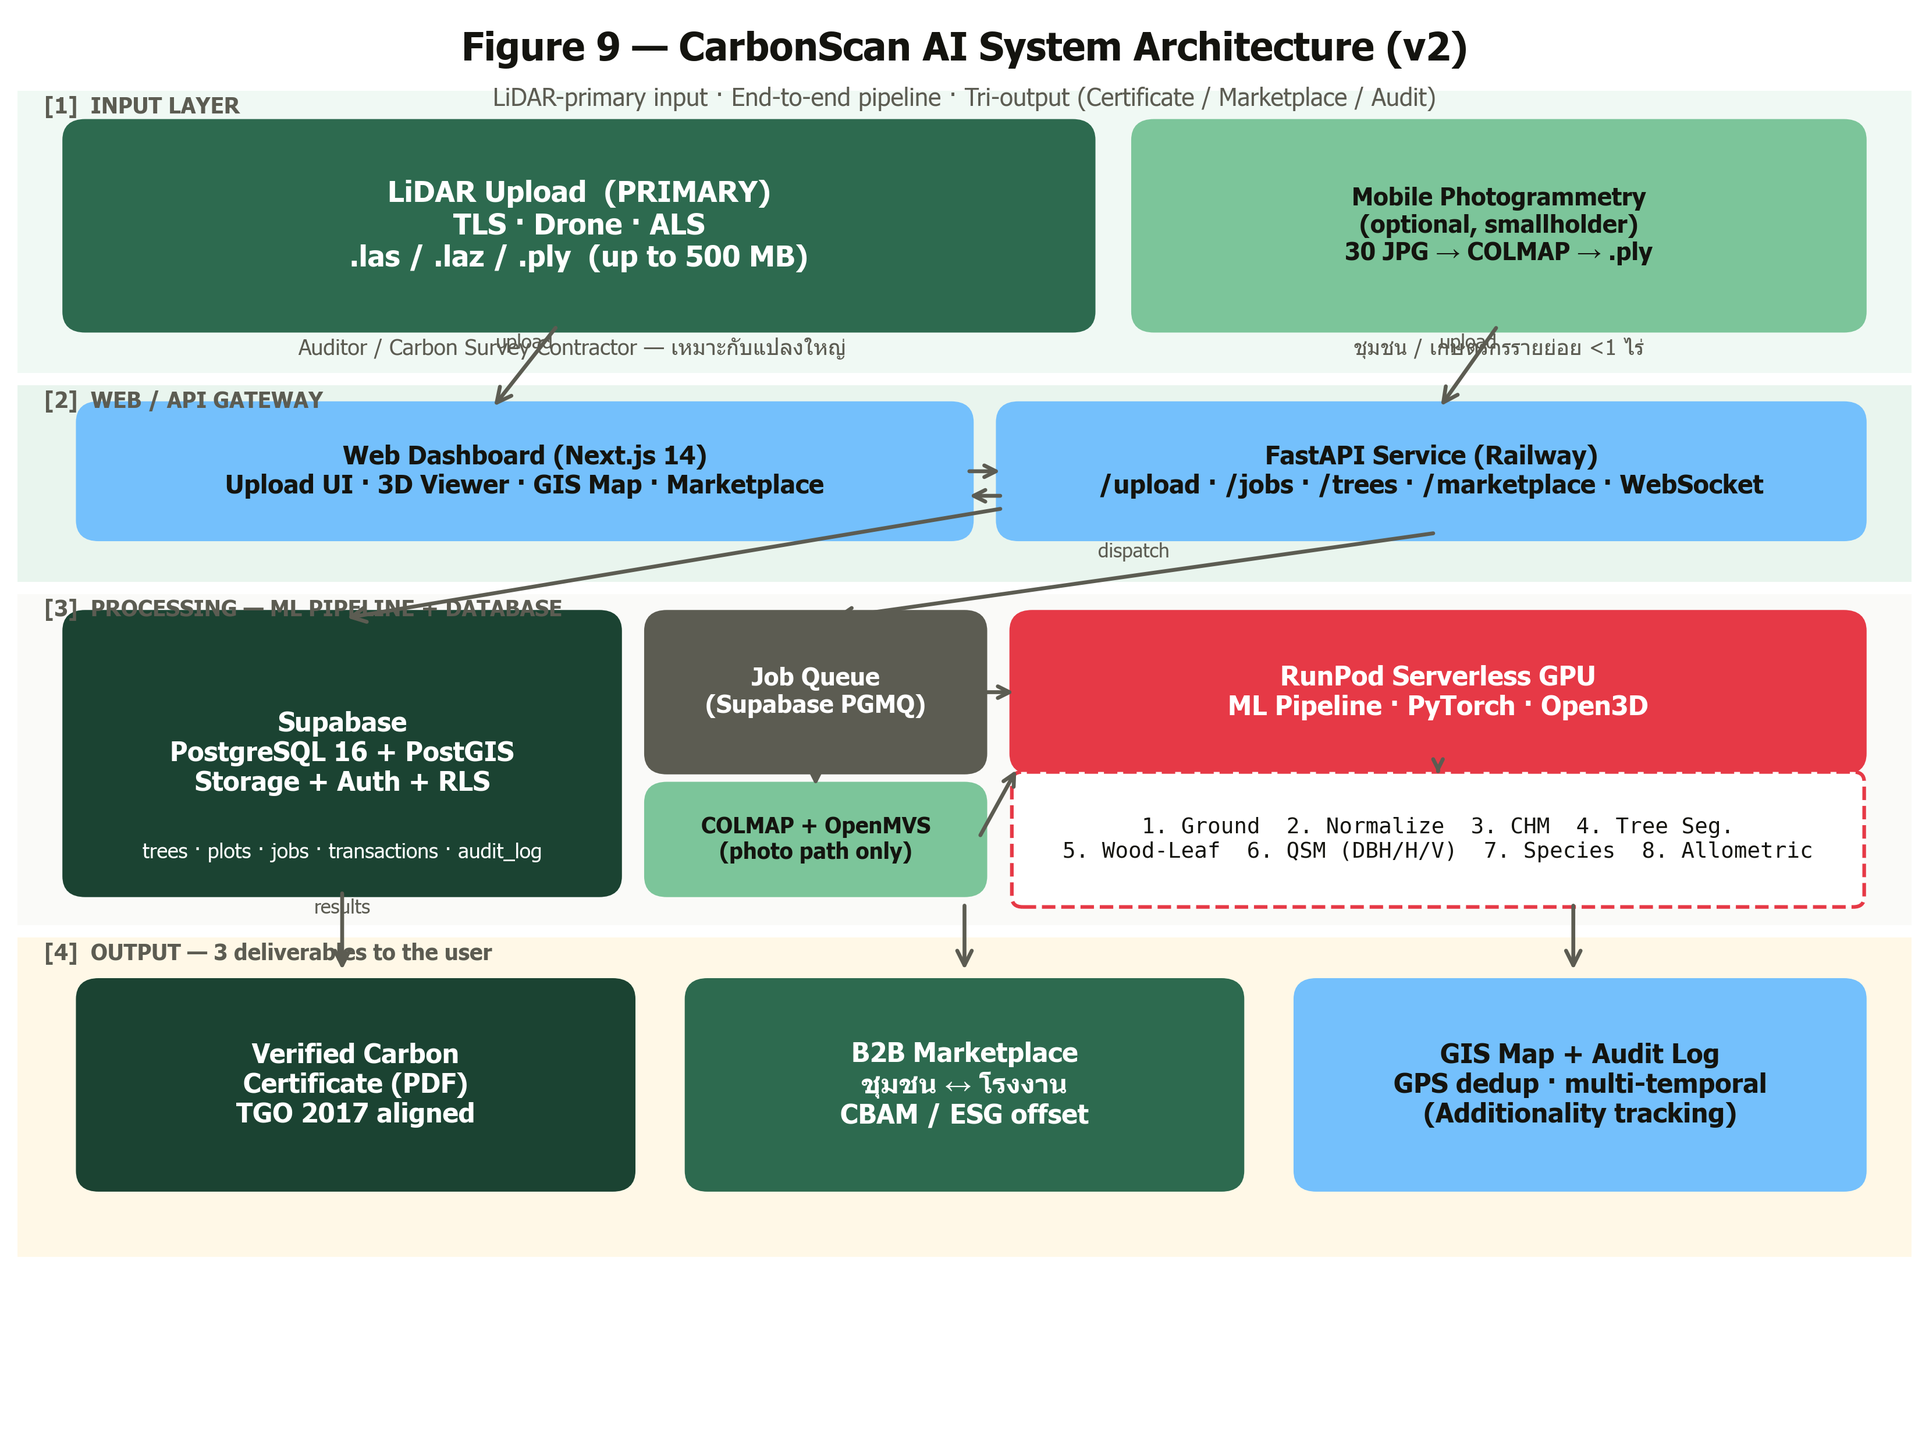
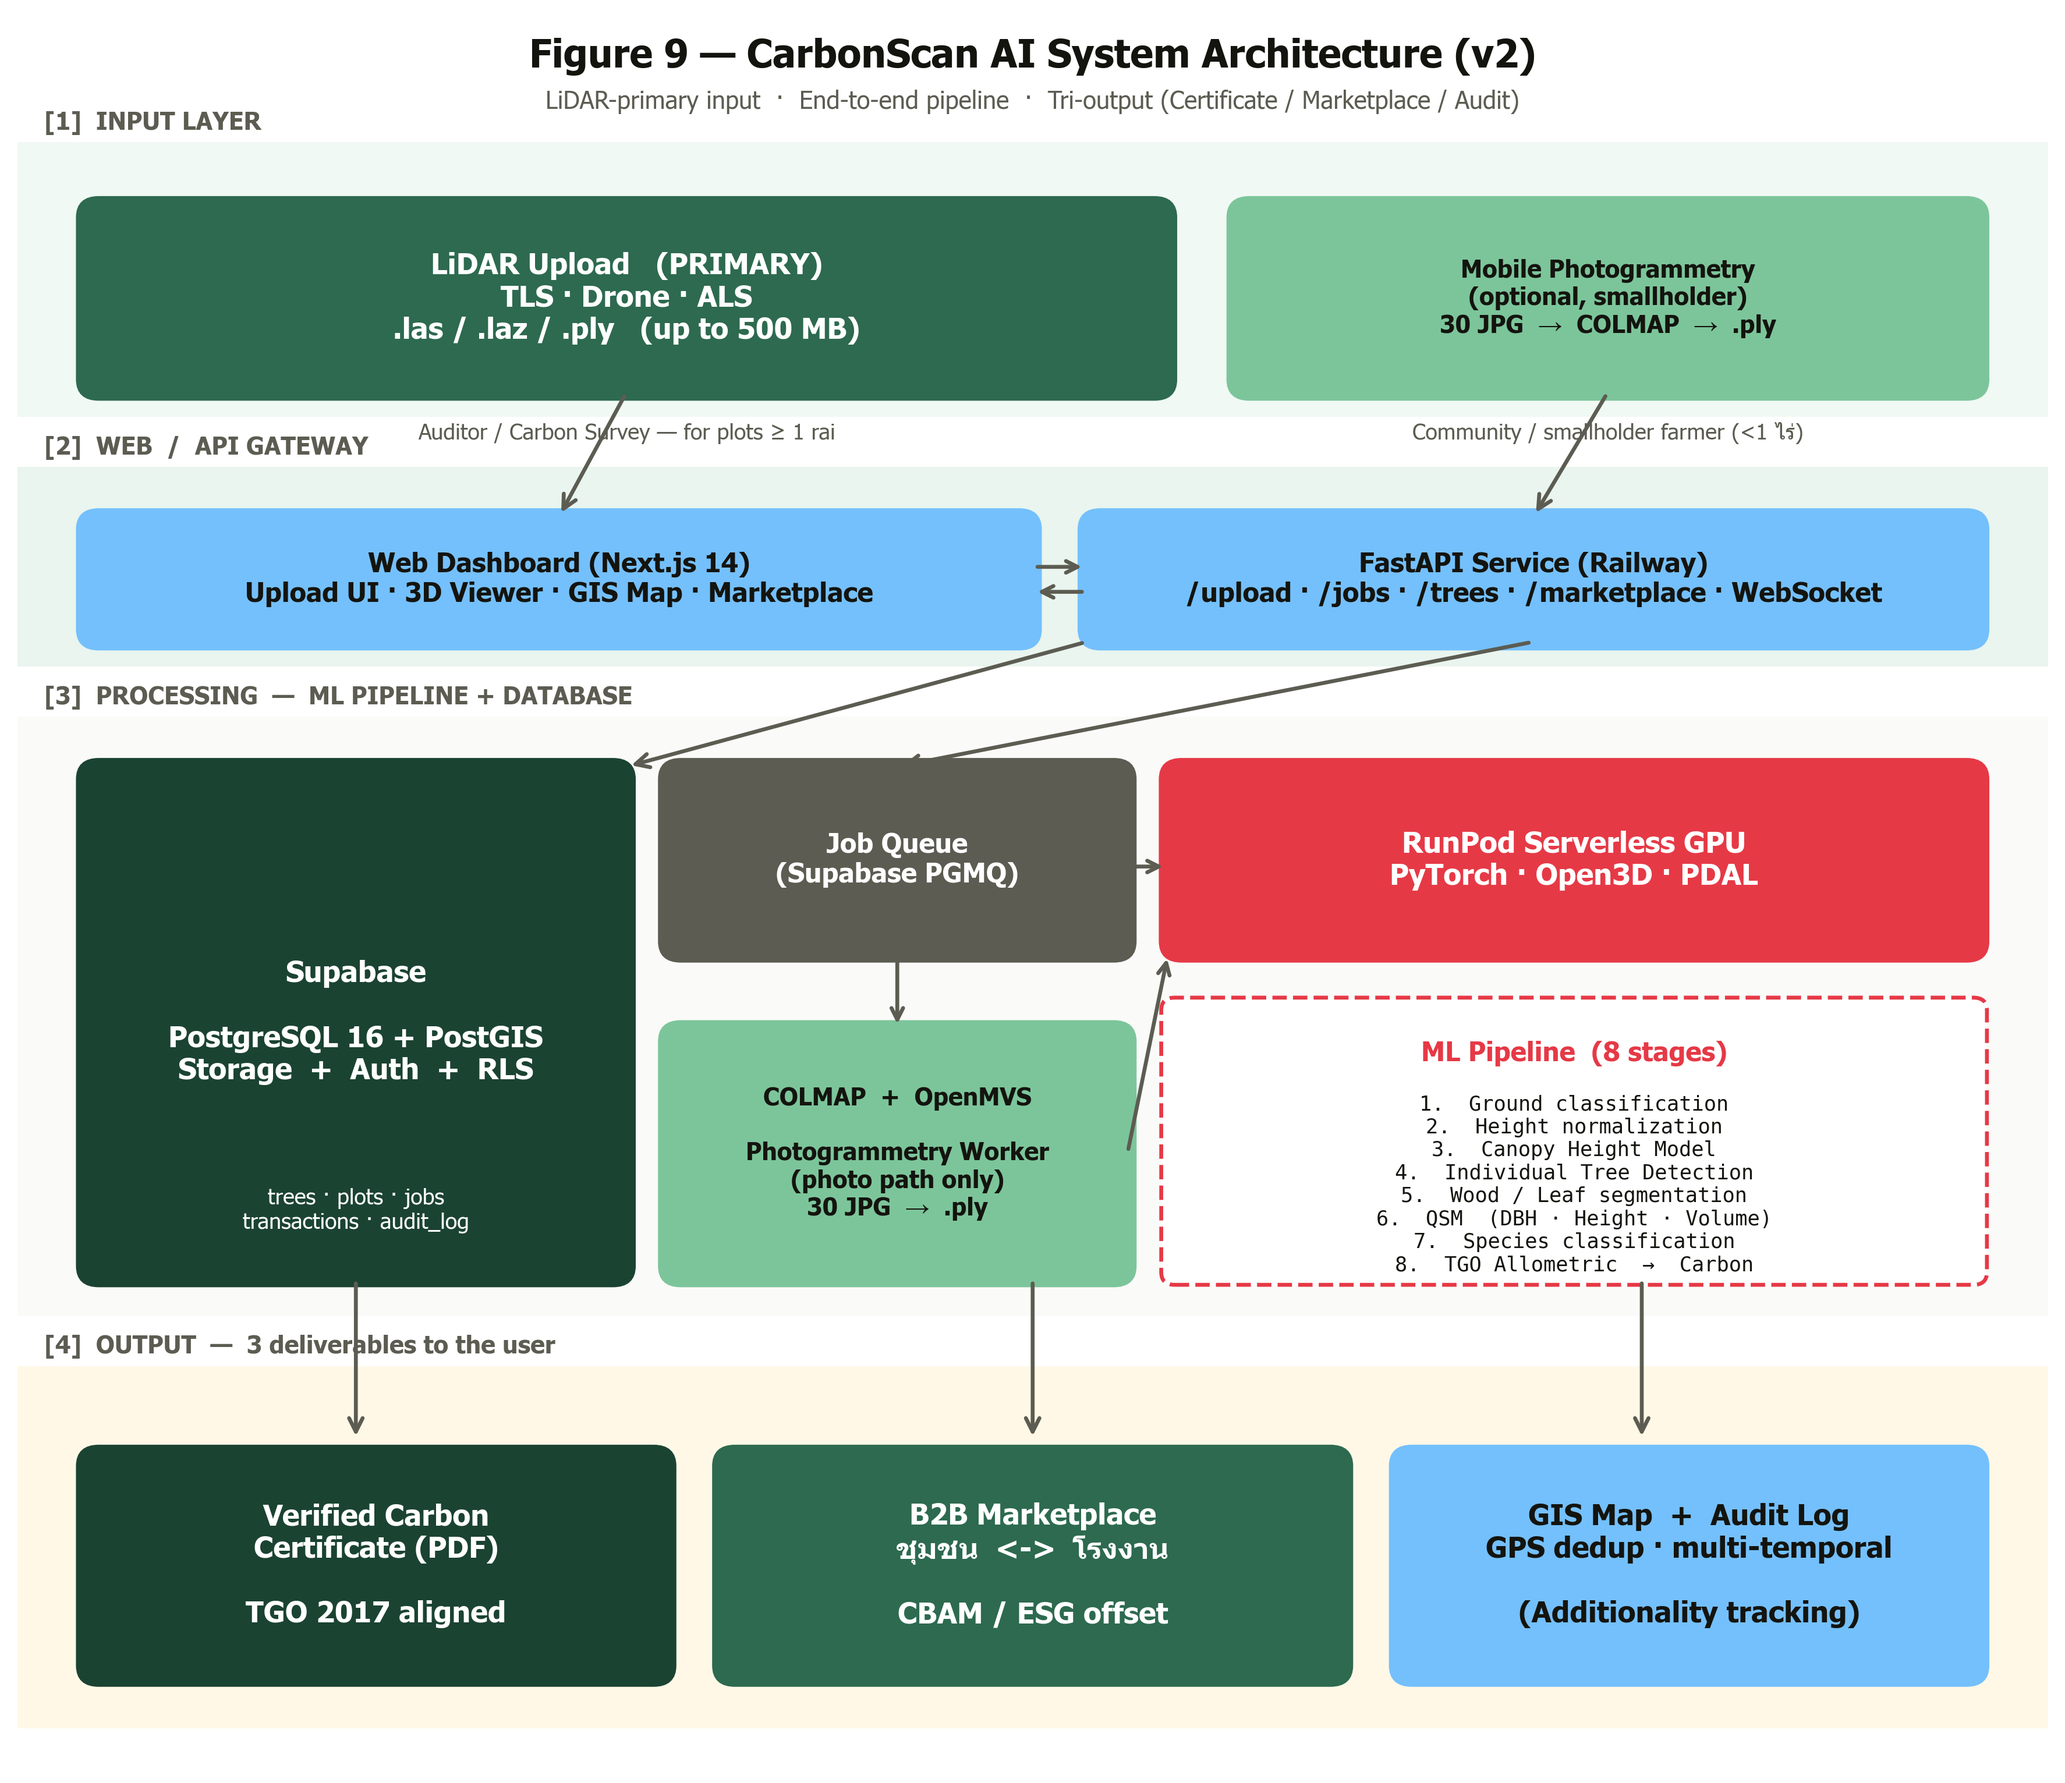
docs(proposal): redo fig09 layout — explicit y-bands, no overlap
Previous v2 had two visual bugs the user spotted:

1. Banner label of layer [3] (PROCESSING — ML PIPELINE + DATABASE) sat on
   top of the Supabase box edge — the text and the box's white border
   collided.
2. Italic captions under the INPUT boxes (Auditor / Carbon Survey
   Contractor … and ชุมชน / เกษตรกรรายย่อย …) overlapped the GATEWAY
   layer background.

Root cause: layer y-bands were stacked tight to maximize info density,
but each box's "inside padding" wasn't accounted for. Banner labels were
placed at y_top - 0.18, which is INSIDE the layer rectangle next to the
box's top edge.

v3 fix:
- Bumped figure to 15 x 13 inches and y-axis to 0-14 to give breathing room.
- Each layer now has an explicit (bg_bot, bg_top, label_y, boxes_bot,
  boxes_top) tuple. Banner labels sit ABOVE the colored background, not
  inside it.
- Italic sub-captions moved into the gap between INPUT and GATEWAY
  backgrounds (y=10.62), and the GATEWAY band was lowered to make space.
- ML Pipeline detail box is now a single bordered card with all 8 stages
  listed vertically — easier to read than the previous 3-line crowded text.
- Database column reorganized so trees/plots/jobs/transactions/audit_log
  list fits inside the Supabase box without colliding with the next layer.
- Output row pushed up slightly (y=0.7) so the layer label [4] is clearly
  above the boxes.

diff --git a/services/ml/notebooks/make_diagrams.py b/services/ml/notebooks/make_diagrams.py
@@ -112,159 +112,165 @@ def _arrow(ax, x1, y1, x2, y2, *, color=STONE, label: str | None = None, mutatio
 
 
 def make_architecture():
-    """v2 — LiDAR-primary architecture diagram.
+    """v3 — LiDAR-primary architecture, layout cleaned up.
 
-    Layout intentionally emphasizes LiDAR as the main input path and
-    Mobile photogrammetry as an optional 'smallholder' fallback, then
-    funnels both through the same software platform to a tri-output of
-    Certificate + Marketplace + Audit log.
+    Each of the 4 layers gets a dedicated y-band with explicit padding so
+    nothing overlaps. Banner labels live in a gutter row above each layer
+    instead of inside the layer rectangle.
     """
-    fig, ax = plt.subplots(figsize=(14, 10.5))
-    ax.set_xlim(0, 14)
-    ax.set_ylim(0, 11.5)
+    fig, ax = plt.subplots(figsize=(15, 13))
+    ax.set_xlim(0, 15)
+    ax.set_ylim(0, 14)
     ax.axis("off")
     fig.patch.set_facecolor("white")
-    ax.set_facecolor("#FAFAF8")
+    ax.set_facecolor("white")
 
-    # === Layer banners ===
-    def banner(y_top, y_bot, label, color):
-        ax.add_patch(
-            mpatches.Rectangle((0, y_bot), 14, y_top - y_bot, facecolor=color, edgecolor="none", zorder=0)
-        )
-        ax.text(0.2, y_top - 0.18, label, fontsize=9, color=STONE, fontweight="bold")
+    # ----- Layer Y bands -----
+    #   gutter_top : label above each layer
+    #   bg_top/bot : the tinted background rectangle
+    #   inside_top/bot: where boxes live
+    layers = [
+        # name           bg_color   bg_bot bg_top   label_y    boxes_bot boxes_top
+        ("[1]  INPUT LAYER",                                "#F0F9F4", 10.8, 13.0, 13.1,  11.0, 12.5),
+        ("[2]  WEB  /  API GATEWAY",                        "#E9F5EE",  8.8, 10.4, 10.5,   9.0, 10.0),
+        ("[3]  PROCESSING  —  ML PIPELINE + DATABASE",      "#FAFAF8",  3.6,  8.4,  8.5,   3.9,  8.0),
+        ("[4]  OUTPUT  —  3 deliverables to the user",      "#FFF8E7",  0.3,  3.2,  3.3,   0.6,  2.6),
+    ]
+    for label, color, bg_bot, bg_top, label_y, *_ in layers:
+        ax.add_patch(mpatches.Rectangle(
+            (0, bg_bot), 15, bg_top - bg_bot,
+            facecolor=color, edgecolor="none", zorder=0))
+        ax.text(0.2, label_y, label, fontsize=10, color=STONE, fontweight="bold")
 
-    banner(10.9, 8.6, "[1]  INPUT LAYER", "#F0F9F4")
-    banner(8.5, 6.9, "[2]  WEB / API GATEWAY", "#E9F5EE")
-    banner(6.8, 4.1, "[3]  PROCESSING — ML PIPELINE + DATABASE", "#FAFAF8")
-    banner(4.0, 1.4, "[4]  OUTPUT — 3 deliverables to the user", "#FFF8E7")
-
-    # === INPUT LAYER ===
-    # LiDAR — BIG, PRIMARY
+    # ===========================  INPUT LAYER  ===========================
+    # LiDAR — BIG, PRIMARY  (left 8 of 15)
     _box(
-        ax, 0.4, 9.0, 7.5, 1.6,
-        "LiDAR Upload  (PRIMARY)\nTLS · Drone · ALS\n.las / .laz / .ply  (up to 500 MB)",
+        ax, 0.5, 11.0, 8.0, 1.5,
+        "LiDAR Upload   (PRIMARY)\nTLS · Drone · ALS\n.las / .laz / .ply   (up to 500 MB)",
         color=FOREST_500, fontsize=12,
     )
-    ax.text(4.1, 8.75, "Auditor / Carbon Survey Contractor — เหมาะกับแปลงใหญ่",
-            ha="center", fontsize=9, color=STONE, style="italic")
 
-    # Mobile — SMALLER, SECONDARY
+    # Mobile — SMALLER, SECONDARY  (right 5.5)
     _box(
-        ax, 8.3, 9.0, 5.3, 1.6,
-        "Mobile Photogrammetry\n(optional, smallholder)\n30 JPG → COLMAP → .ply",
+        ax, 9.0, 11.0, 5.5, 1.5,
+        "Mobile Photogrammetry\n(optional, smallholder)\n30 JPG  →  COLMAP  →  .ply",
         color=FOREST_300, text_color=CHARCOAL, fontsize=10,
     )
-    ax.text(10.95, 8.75, "ชุมชน / เกษตรกรรายย่อย <1 ไร่",
+
+    # Sub-captions sit in the small gap between INPUT background and GATEWAY background
+    ax.text(4.5, 10.62, "Auditor / Carbon Survey — for plots ≥ 1 rai",
+            ha="center", fontsize=9, color=STONE, style="italic")
+    ax.text(11.75, 10.62, "Community / smallholder farmer (<1 ไร่)",
             ha="center", fontsize=9, color=STONE, style="italic")
 
-    # === WEB / API GATEWAY ===
+    # ===========================  GATEWAY  ===========================
     _box(
-        ax, 0.5, 7.3, 6.5, 1.0,
+        ax, 0.5, 9.0, 7.0, 1.0,
         "Web Dashboard (Next.js 14)\nUpload UI · 3D Viewer · GIS Map · Marketplace",
-        color=SKY_500, text_color=CHARCOAL, fontsize=10.5,
+        color=SKY_500, text_color=CHARCOAL, fontsize=11,
     )
     _box(
-        ax, 7.3, 7.3, 6.3, 1.0,
+        ax, 7.9, 9.0, 6.6, 1.0,
         "FastAPI Service (Railway)\n/upload · /jobs · /trees · /marketplace · WebSocket",
-        color=SKY_500, text_color=CHARCOAL, fontsize=10.5,
-    )
-
-    # === PROCESSING LAYER ===
-    # Database (left)
-    _box(
-        ax, 0.4, 4.4, 4.0, 2.2,
-        "Supabase\nPostgreSQL 16 + PostGIS\nStorage + Auth + RLS",
-        color=FOREST_700, fontsize=11,
-    )
-    ax.text(2.4, 4.65, "trees · plots · jobs · transactions · audit_log",
-            ha="center", fontsize=8.5, color="white", style="italic")
-
-    # Queue (center)
-    _box(
-        ax, 4.7, 5.4, 2.4, 1.2,
-        "Job Queue\n(Supabase PGMQ)",
-        color=STONE, fontsize=10,
-    )
-    # Photogrammetry worker (smaller, below queue)
-    _box(
-        ax, 4.7, 4.4, 2.4, 0.8,
-        "COLMAP + OpenMVS\n(photo path only)",
-        color=FOREST_300, text_color=CHARCOAL, fontsize=9,
-    )
-
-    # GPU Worker (right)
-    _box(
-        ax, 7.4, 5.4, 6.2, 1.2,
-        "RunPod Serverless GPU\nML Pipeline · PyTorch · Open3D",
-        color=ERROR, fontsize=11,
-    )
-    # ML pipeline details
-    pipeline_text = (
-        "1. Ground  2. Normalize  3. CHM  4. Tree Seg.\n"
-        "5. Wood-Leaf  6. QSM (DBH/H/V)  7. Species  8. Allometric"
-    )
-    ax.add_patch(
-        FancyBboxPatch(
-            (7.4, 4.3), 6.2, 1.0,
-            boxstyle="round,pad=0.05,rounding_size=0.08",
-            facecolor="white", edgecolor=ERROR, linewidth=1.5, linestyle="--",
-        )
-    )
-    ax.text(10.5, 4.8, pipeline_text, ha="center", va="center", fontsize=9, color=CHARCOAL, family="monospace")
-
-    # === OUTPUT LAYER ===
-    _box(
-        ax, 0.5, 2.0, 4.0, 1.6,
-        "Verified Carbon\nCertificate (PDF)\nTGO 2017 aligned",
-        color=FOREST_700, fontsize=11,
-    )
-    _box(
-        ax, 5.0, 2.0, 4.0, 1.6,
-        "B2B Marketplace\nชุมชน ↔ โรงงาน\nCBAM / ESG offset",
-        color=FOREST_500, fontsize=11,
-    )
-    _box(
-        ax, 9.5, 2.0, 4.1, 1.6,
-        "GIS Map + Audit Log\nGPS dedup · multi-temporal\n(Additionality tracking)",
         color=SKY_500, text_color=CHARCOAL, fontsize=11,
     )
 
-    # === Arrows: top-down flow ===
-    # Inputs → Web/API gateway
-    _arrow(ax, 4.0, 9.0, 3.5, 8.3, label="upload")
-    _arrow(ax, 10.95, 9.0, 10.5, 8.3, label="upload")
+    # ===========================  PROCESSING  ===========================
+    # Database — leftmost full-height column
+    _box(
+        ax, 0.5, 3.9, 4.0, 4.1,
+        "Supabase\n\nPostgreSQL 16 + PostGIS\nStorage  +  Auth  +  RLS",
+        color=FOREST_700, fontsize=12,
+    )
+    ax.text(2.5, 4.3,
+            "trees · plots · jobs\ntransactions · audit_log",
+            ha="center", fontsize=9, color="white", style="italic")
 
-    # Web ↔ API
-    _arrow(ax, 7.0, 7.8, 7.3, 7.8, mutation=12)
-    _arrow(ax, 7.3, 7.6, 7.0, 7.6, mutation=12)
+    # Center column: Queue (top) + COLMAP (below)
+    _box(
+        ax, 4.8, 6.5, 3.4, 1.5,
+        "Job Queue\n(Supabase PGMQ)",
+        color=STONE, fontsize=11,
+    )
+    _box(
+        ax, 4.8, 3.9, 3.4, 2.0,
+        "COLMAP  +  OpenMVS\n\nPhotogrammetry Worker\n(photo path only)\n30 JPG  →  .ply",
+        color=FOREST_300, text_color=CHARCOAL, fontsize=10,
+    )
 
-    # API → Queue
-    _arrow(ax, 10.5, 7.3, 6.0, 6.6, label="dispatch")
+    # Right column: GPU Worker (top) + ML pipeline detail (below)
+    _box(
+        ax, 8.5, 6.5, 6.0, 1.5,
+        "RunPod Serverless GPU\nPyTorch · Open3D · PDAL",
+        color=ERROR, fontsize=12,
+    )
+    ax.add_patch(FancyBboxPatch(
+        (8.5, 3.9), 6.0, 2.2,
+        boxstyle="round,pad=0.05,rounding_size=0.1",
+        facecolor="white", edgecolor=ERROR, linewidth=1.6, linestyle="--",
+    ))
+    ax.text(11.5, 5.7, "ML Pipeline  (8 stages)",
+            ha="center", va="center", fontsize=11, color=ERROR, fontweight="bold")
+    pipeline_text = (
+        "1.  Ground classification\n"
+        "2.  Height normalization\n"
+        "3.  Canopy Height Model\n"
+        "4.  Individual Tree Detection\n"
+        "5.  Wood / Leaf segmentation\n"
+        "6.  QSM  (DBH · Height · Volume)\n"
+        "7.  Species classification\n"
+        "8.  TGO Allometric  →  Carbon"
+    )
+    ax.text(11.5, 4.65, pipeline_text,
+            ha="center", va="center", fontsize=8.5, color=CHARCOAL, family="monospace")
 
-    # API ↔ DB
-    _arrow(ax, 7.3, 7.5, 2.4, 6.6)
+    # ===========================  OUTPUT  ===========================
+    _box(
+        ax, 0.5, 0.7, 4.3, 1.8,
+        "Verified Carbon\nCertificate (PDF)\n\nTGO 2017 aligned",
+        color=FOREST_700, fontsize=12,
+    )
+    _box(
+        ax, 5.2, 0.7, 4.6, 1.8,
+        "B2B Marketplace\nชุมชน  <->  โรงงาน\n\nCBAM / ESG offset",
+        color=FOREST_500, fontsize=12,
+    )
+    _box(
+        ax, 10.2, 0.7, 4.3, 1.8,
+        "GIS Map  +  Audit Log\nGPS dedup · multi-temporal\n\n(Additionality tracking)",
+        color=SKY_500, text_color=CHARCOAL, fontsize=12,
+    )
 
-    # Queue → Worker (GPU)
-    _arrow(ax, 7.1, 6.0, 7.4, 6.0, mutation=12)
+    # ===========================  Arrows  ===========================
+    # INPUT  →  GATEWAY  (single converging arrow each)
+    _arrow(ax, 4.5, 11.0, 4.0, 10.0, mutation=14)
+    _arrow(ax, 11.75, 11.0, 11.2, 10.0, mutation=14)
 
-    # Queue → Photogrammetry
-    _arrow(ax, 5.9, 5.4, 5.9, 5.2, mutation=12)
+    # Web  <->  API gateway (horizontal twin)
+    _arrow(ax, 7.5, 9.6, 7.9, 9.6, mutation=12)
+    _arrow(ax, 7.9, 9.4, 7.5, 9.4, mutation=12)
 
-    # Photogrammetry → Worker
-    _arrow(ax, 7.1, 4.8, 7.4, 5.4, mutation=12)
+    # API  →  Queue  +  API  ↔  DB
+    _arrow(ax, 11.2, 9.0, 6.5, 8.0, mutation=14)   # API → Queue
+    _arrow(ax, 7.9,  9.0, 4.5, 8.0, mutation=14)   # API → DB
 
-    # Worker → Pipeline detail
-    _arrow(ax, 10.5, 5.4, 10.5, 5.3, mutation=10)
+    # Queue  →  GPU  &  Queue  →  COLMAP
+    _arrow(ax, 8.2, 7.2, 8.5, 7.2, mutation=12)
+    _arrow(ax, 6.5, 6.5, 6.5, 5.9, mutation=12)
 
-    # Processing → Outputs
-    _arrow(ax, 2.4, 4.4, 2.4, 3.7, label="results")
-    _arrow(ax, 7.0, 4.3, 7.0, 3.7)
-    _arrow(ax, 11.5, 4.3, 11.5, 3.7)
+    # COLMAP  →  GPU  (photo path → ML pipeline)
+    _arrow(ax, 8.2, 4.9, 8.5, 6.5, mutation=12)
 
-    # === Title ===
-    ax.text(7.0, 11.15, "Figure 9 — CarbonScan AI System Architecture (v2)",
+    # PROCESSING  →  OUTPUT  (3 fan-out arrows)
+    _arrow(ax, 2.5, 3.9, 2.5, 2.6, mutation=14)
+    _arrow(ax, 7.5, 3.9, 7.5, 2.6, mutation=14)
+    _arrow(ax, 12.0, 3.9, 12.0, 2.6, mutation=14)
+
+    # ===========================  Title  ===========================
+    ax.text(7.5, 13.6, "Figure 9 — CarbonScan AI System Architecture (v2)",
             ha="center", fontsize=16, fontweight="bold", color=CHARCOAL)
-    ax.text(7.0, 10.78, "LiDAR-primary input · End-to-end pipeline · Tri-output (Certificate / Marketplace / Audit)",
+    ax.text(7.5, 13.27,
+            "LiDAR-primary input  ·  End-to-end pipeline  ·  Tri-output (Certificate / Marketplace / Audit)",
             ha="center", fontsize=10, color=STONE, style="italic")
 
     plt.savefig(FIG_DIR / "fig09_architecture.png", dpi=300, bbox_inches="tight", facecolor="white")
